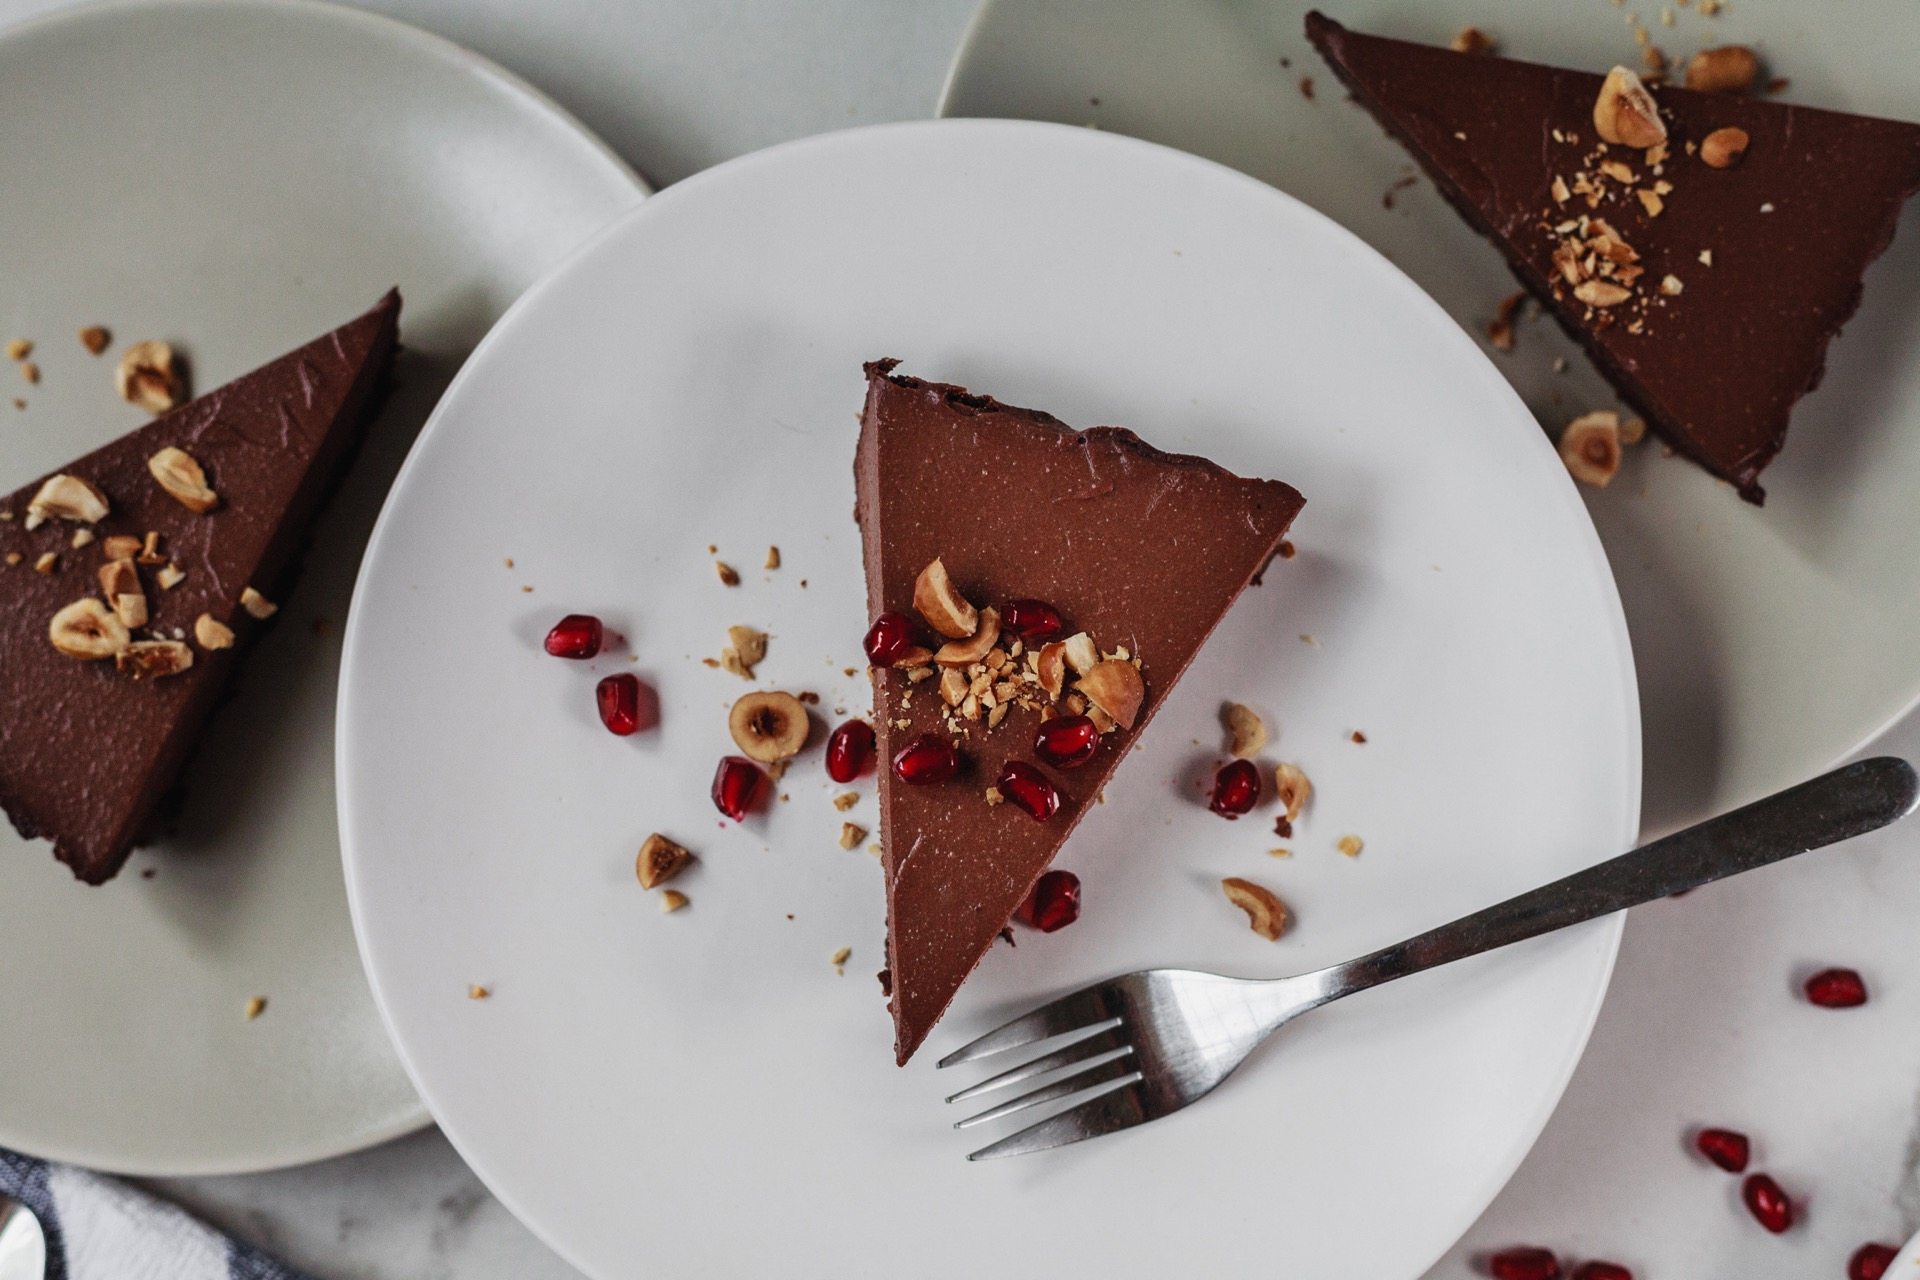
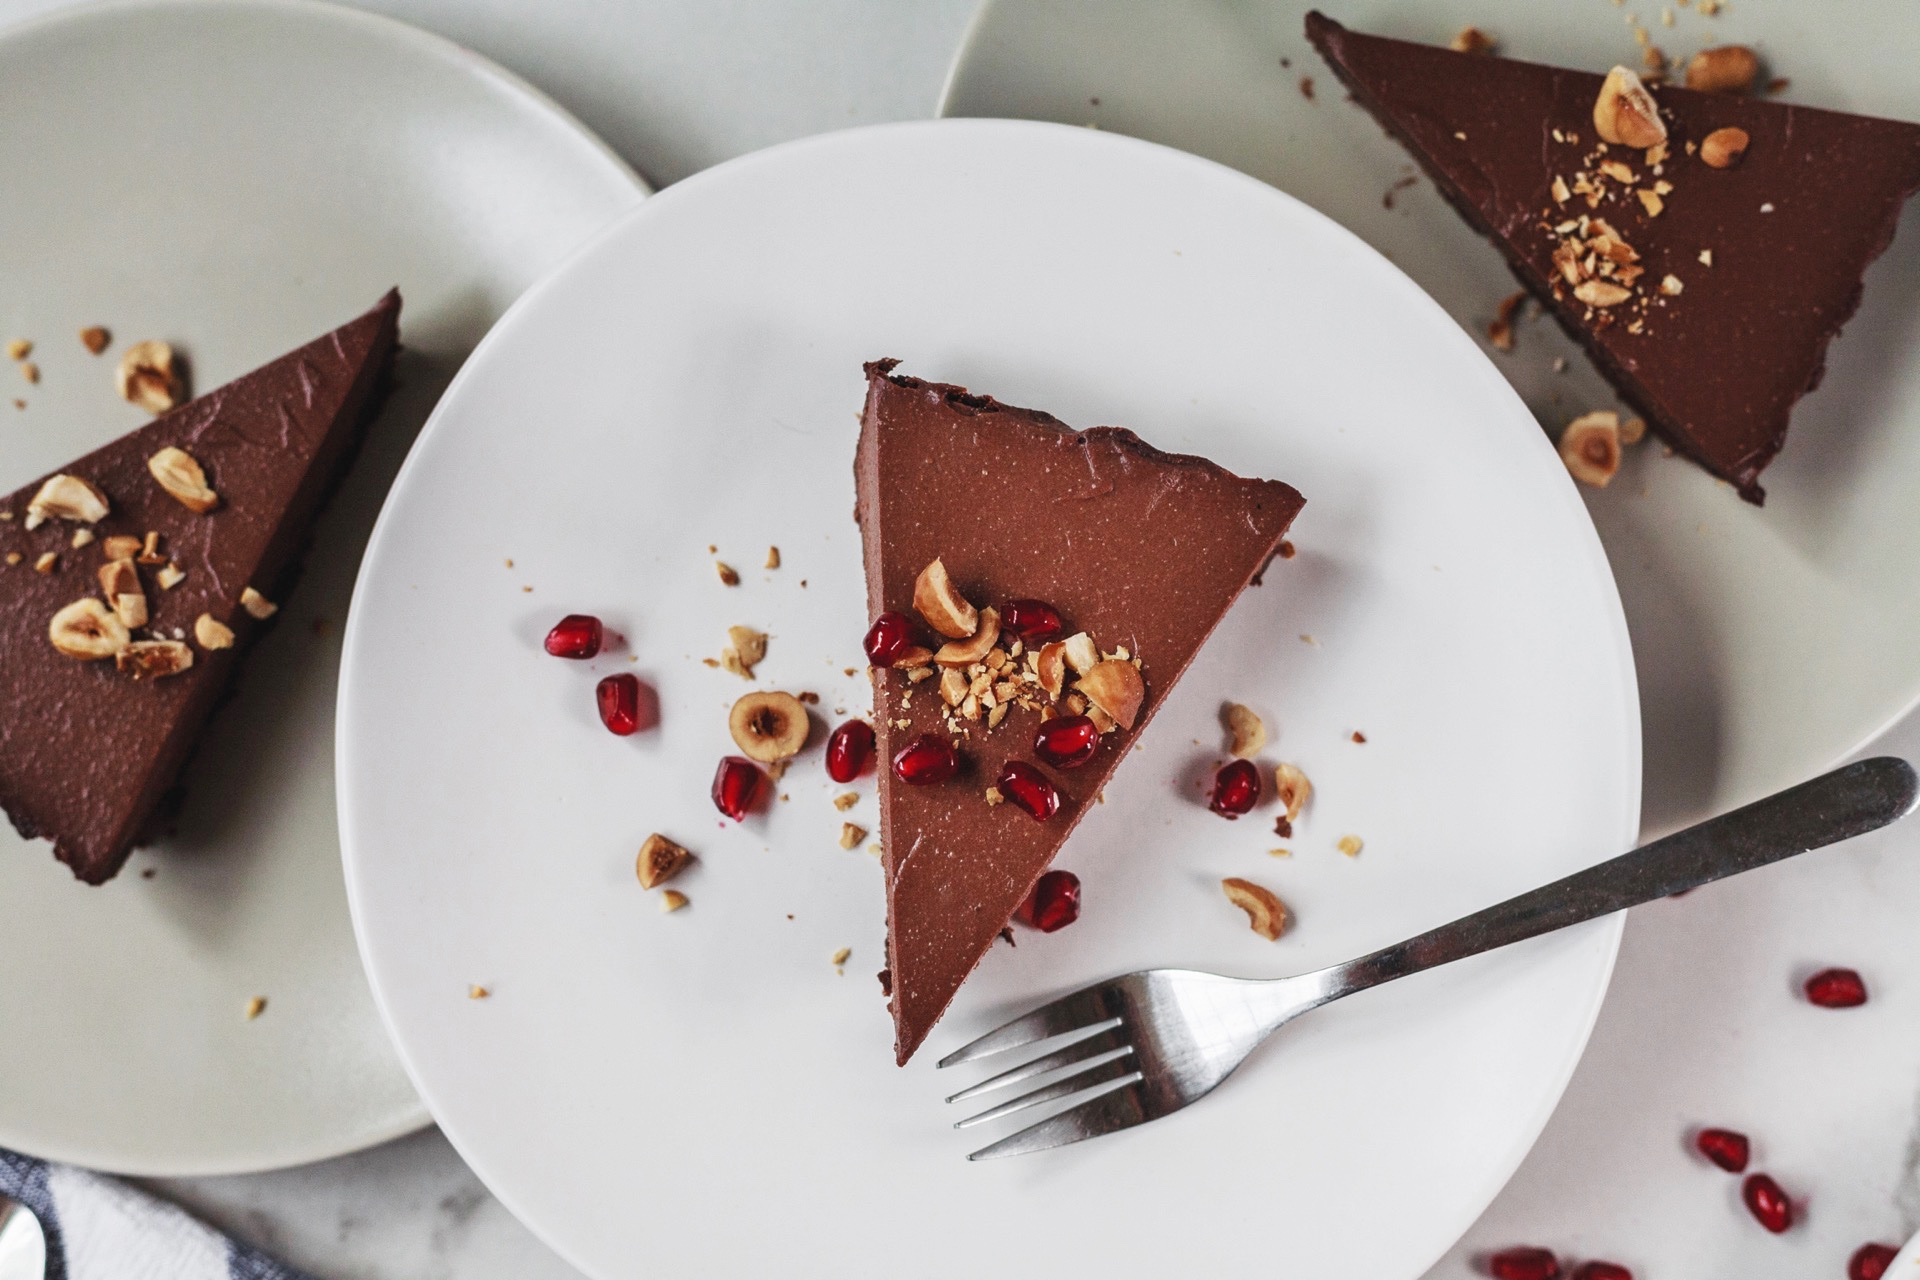
Gogo Tart post edit

diff --git a/site/content/blog/2017-12-14-dark-and-rich-vegan-chocolate-hazelnut-tart.md b/site/content/blog/2017-12-14-dark-and-rich-vegan-chocolate-hazelnut-tart.md
@@ -72,7 +72,9 @@ This is a fabulous tart in general – not for being vegan or gluten free but as
 
 * 1 tbsp of maple syrup
 
-* Chopped hazelnuts to garnish tart with and make it even more festive with some pomegranate (I also like to serve it plain with some coconut whip)
+* Chopped hazelnuts to garnish tart with and make it even more festive with some pomegranate (I also like to serve it plain with some coconut whip)  
+
+![Vegan Chocolate Hazelnut Tart ](/images/uploads/2017_12_14_chocolate_vegan_tart_8.jpg)
 <br>
 <br>
 
@@ -108,4 +110,4 @@ This is a fabulous tart in general – not for being vegan or gluten free but as
 \* You may need more coconut oil if you are using regular chocolate wafer biscuits.  The ones I used have oil in them already and chocolate chips which moisten the crumbs slightly even before you add the oil to them that’s why I was conservative with the oil in this recipe.
 <br>
 <br>
-![Vegan Chocolate Hazelnut Tart ](/images/uploads/2017_12_14_chocolate_vegan_tart_8.jpg)
+![Vegan Chocolate Hazelnut Tart ](/images/uploads/2017_12_14_chocolate_vegan_tart_9.jpg)
